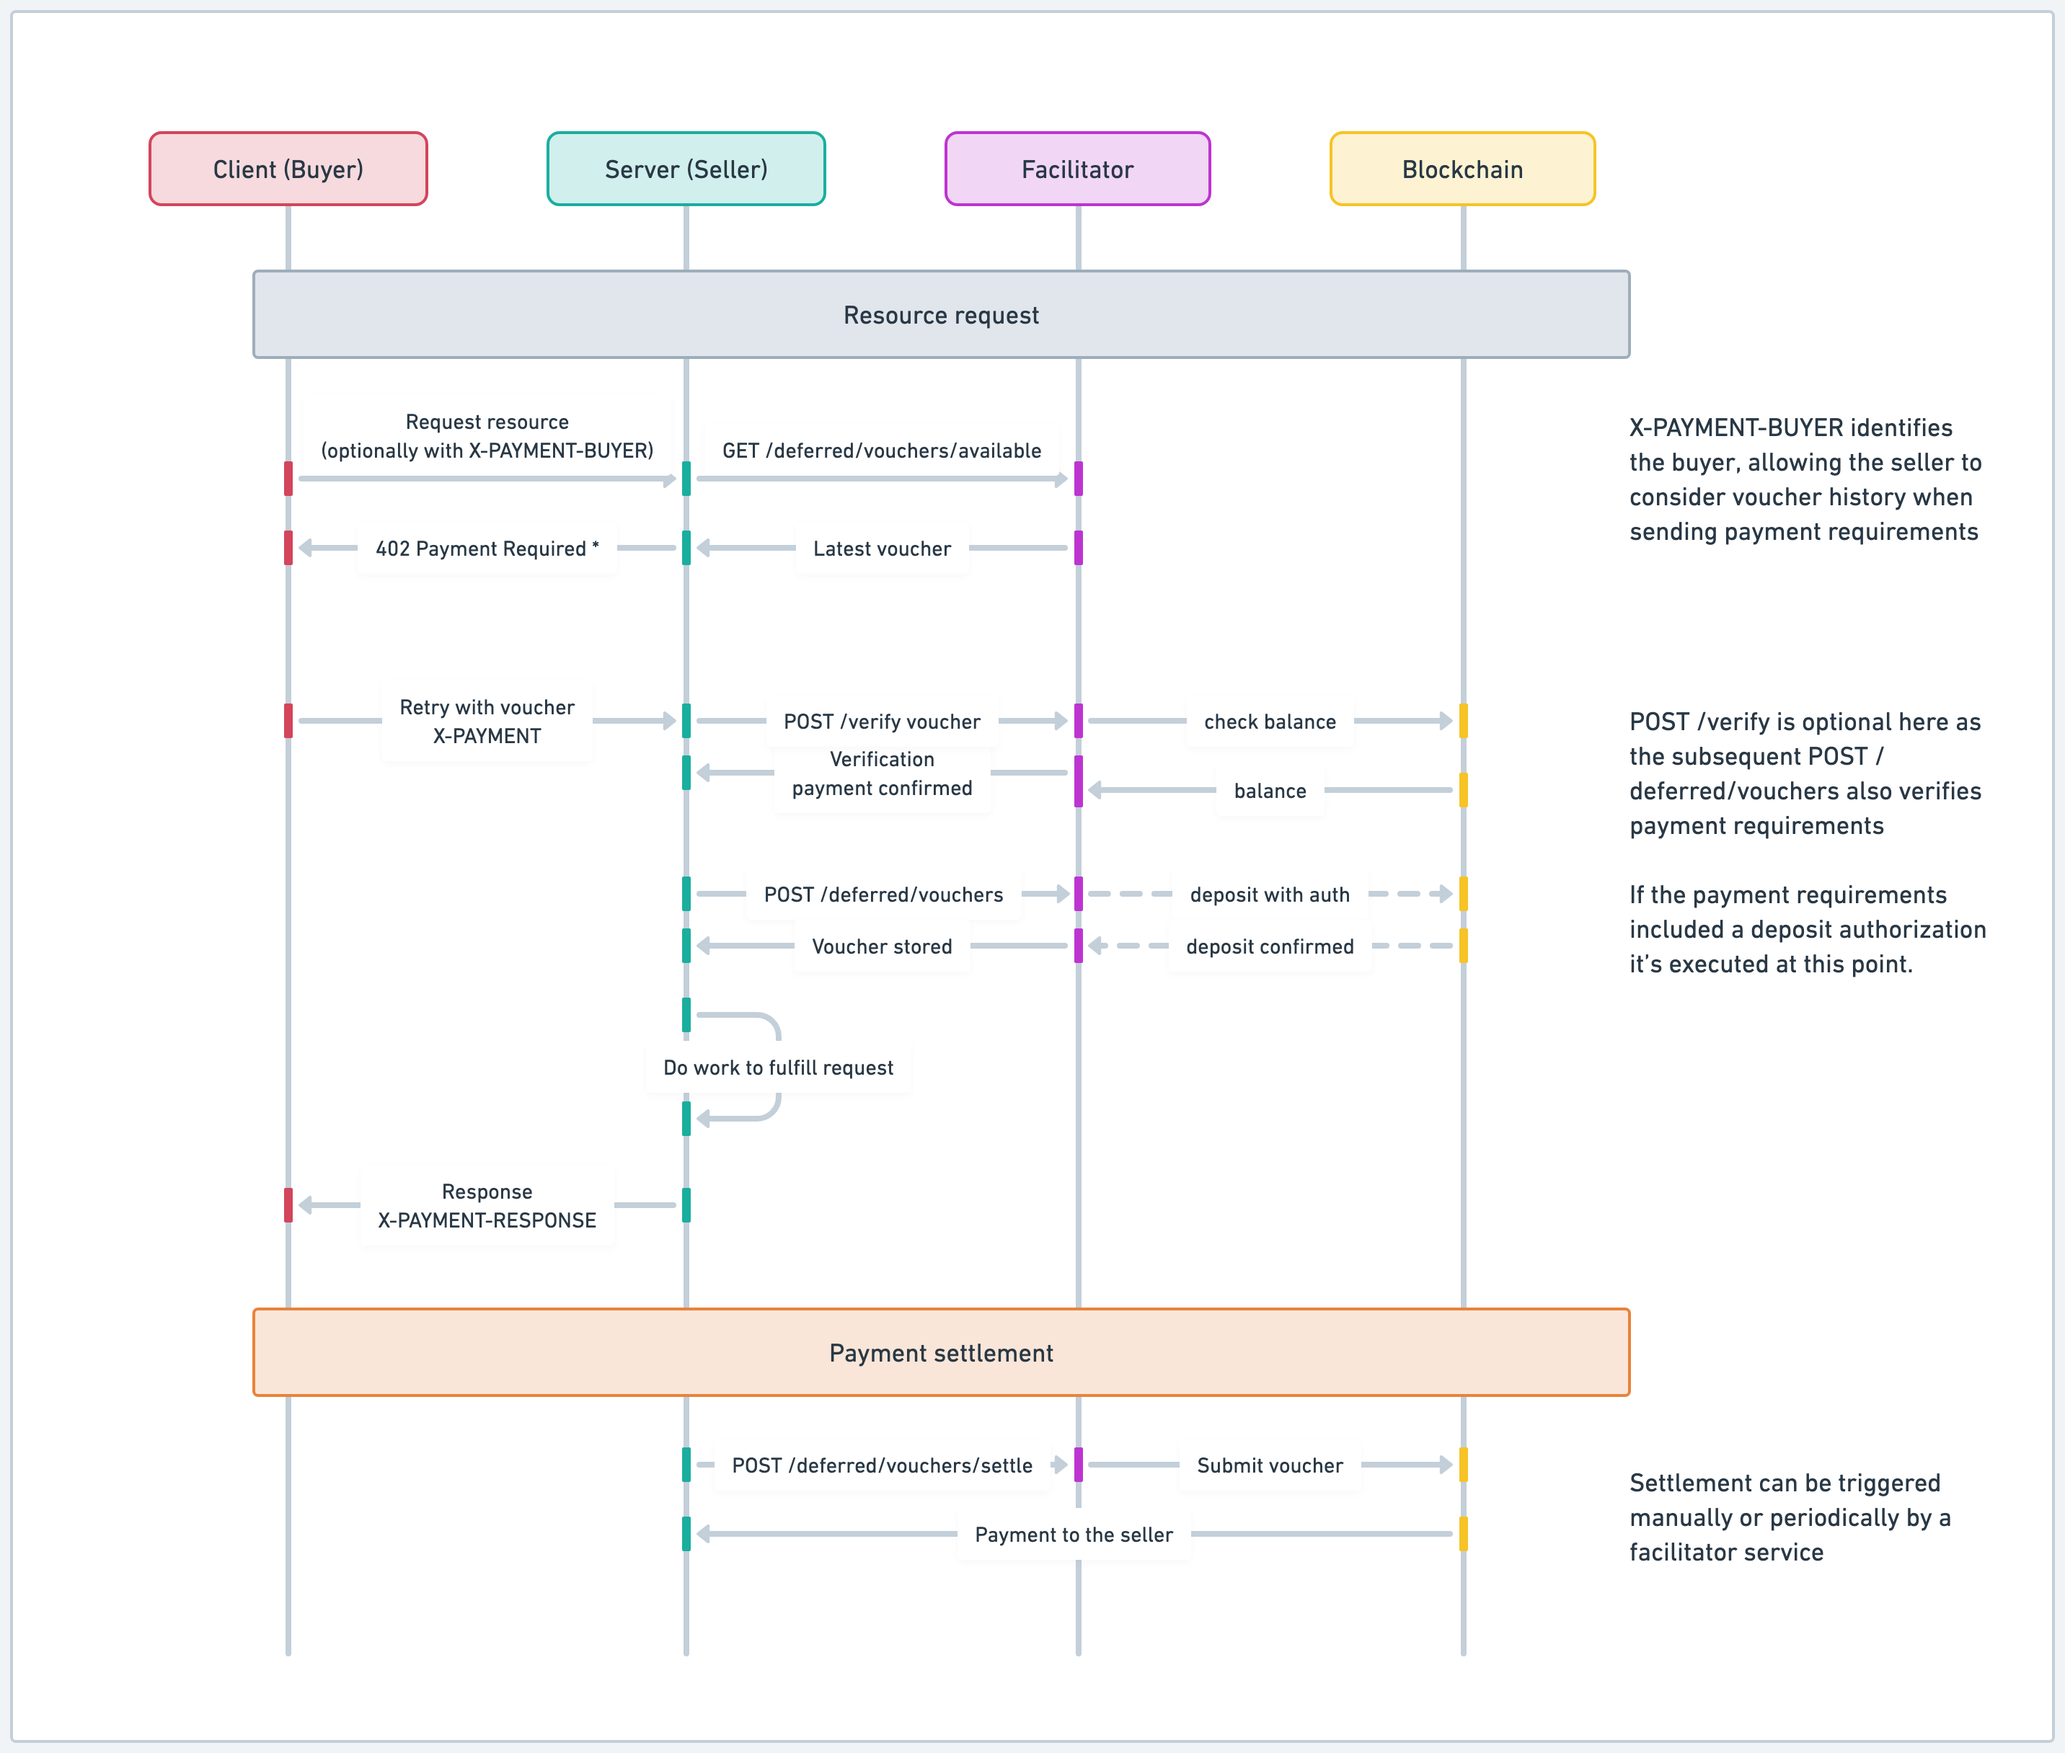
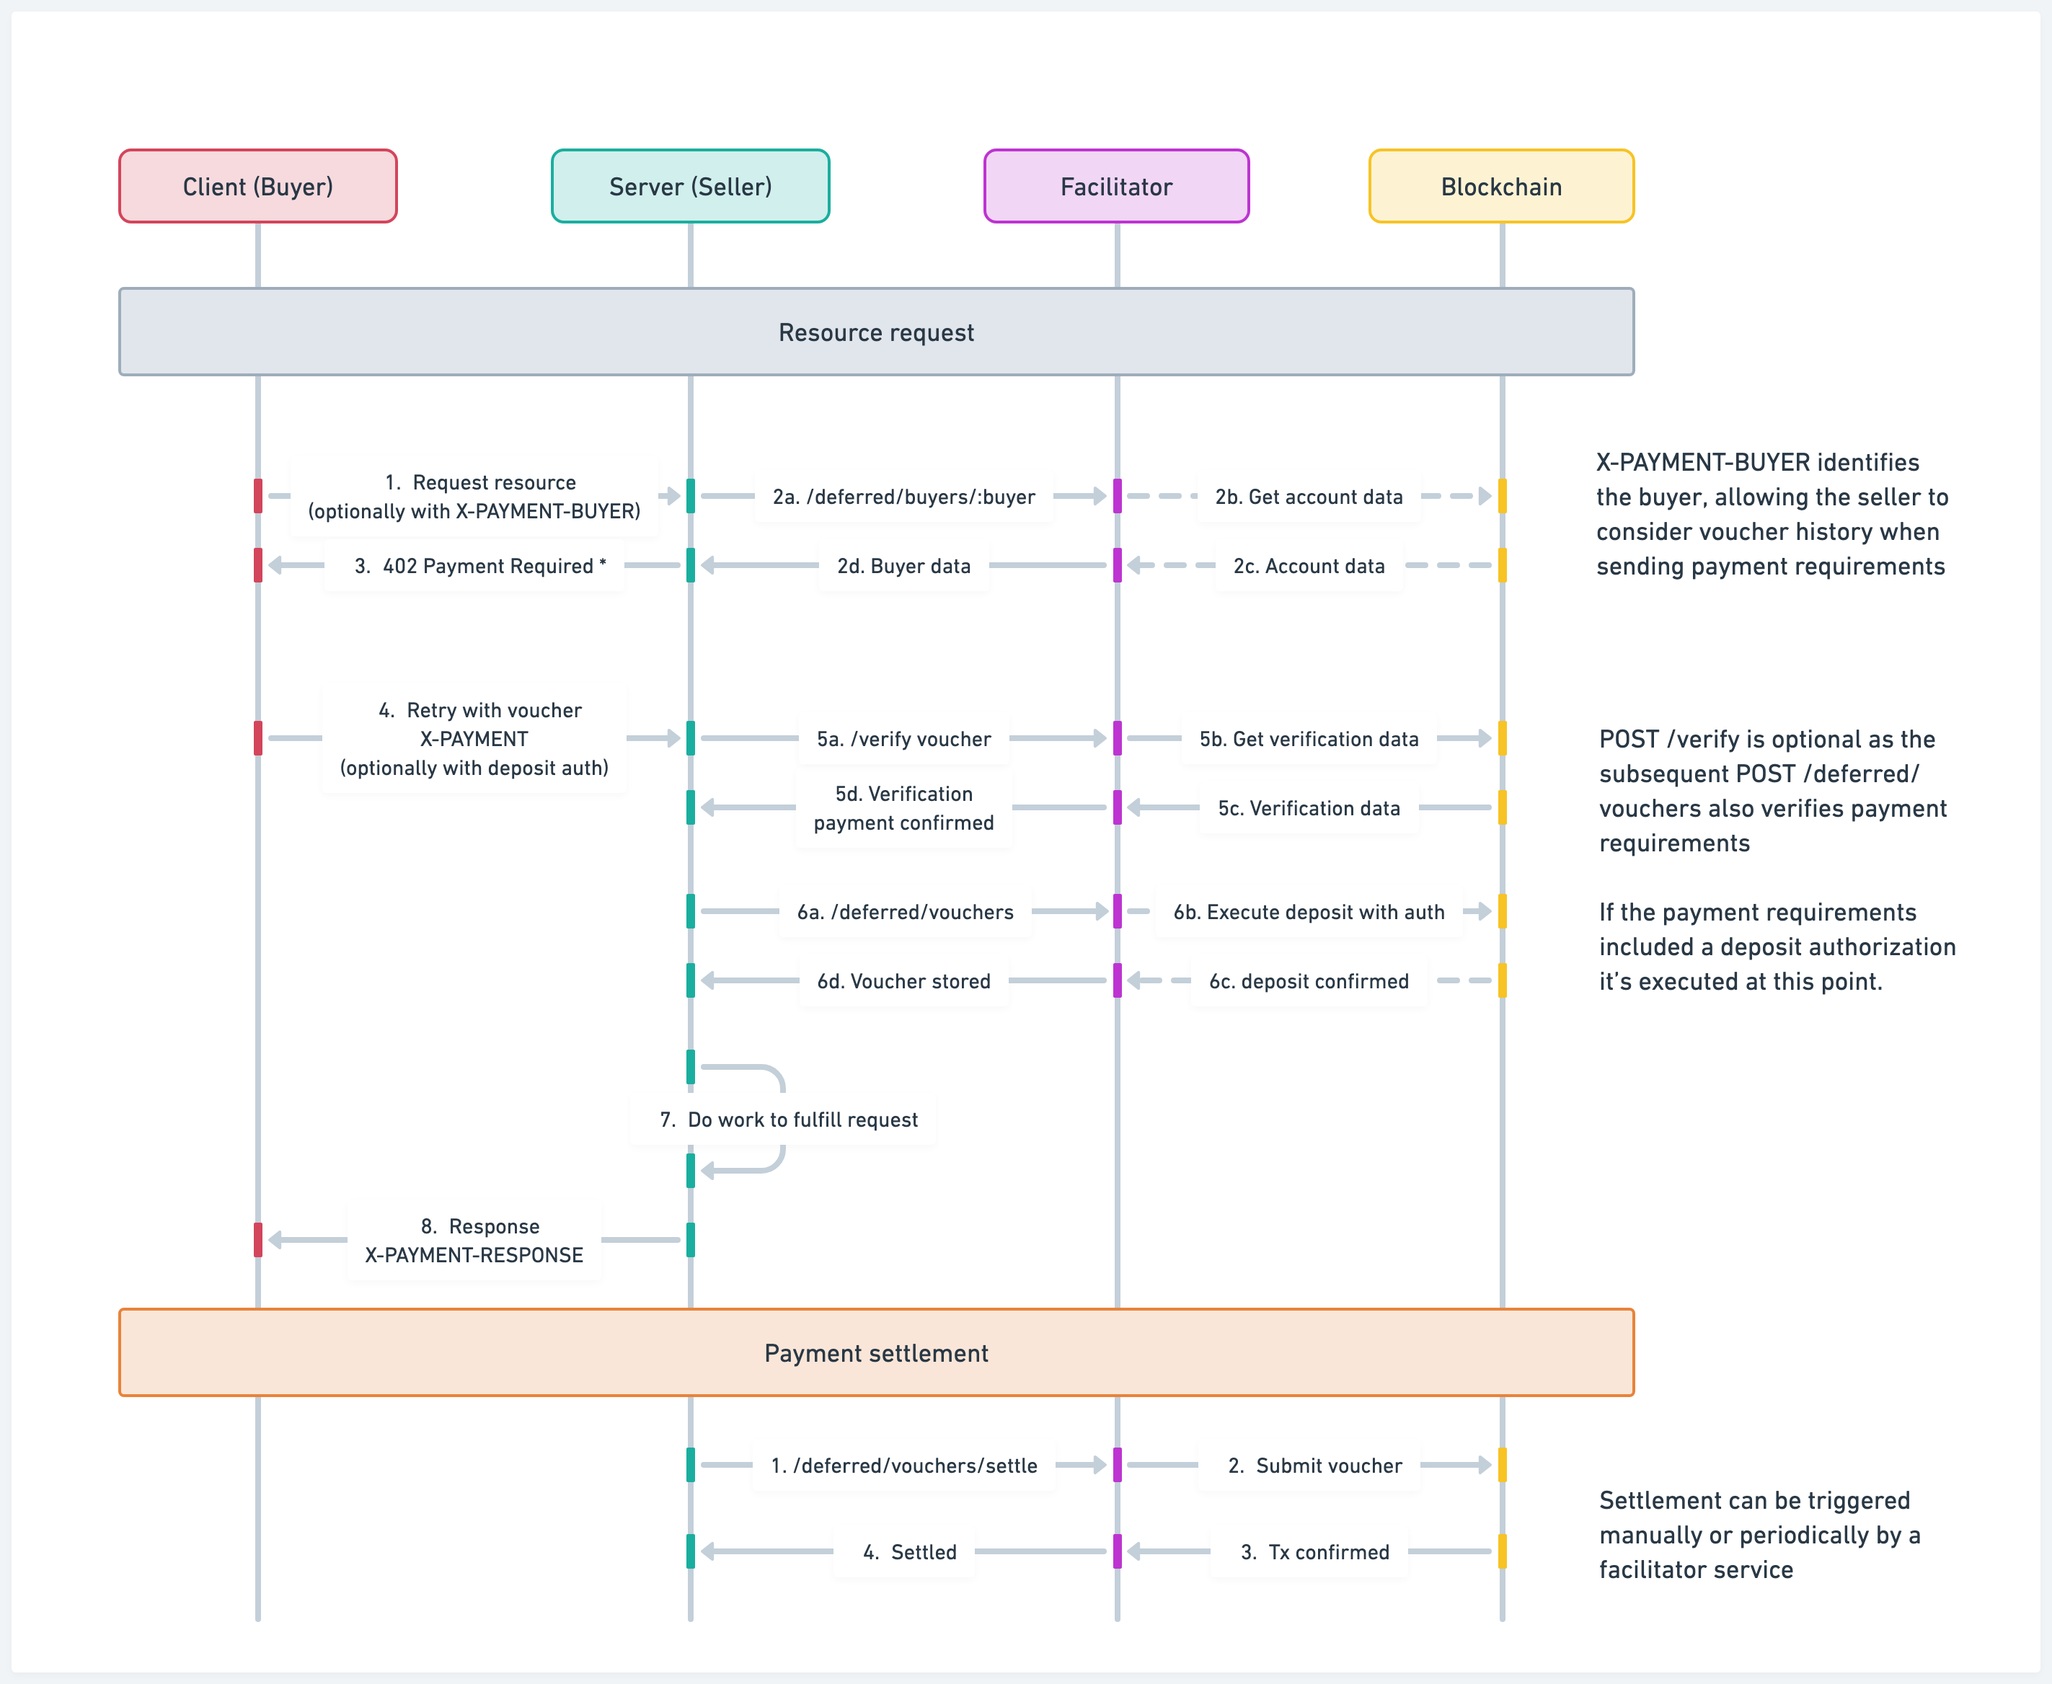
chore: update deferred spec

diff --git a/README.md b/README.md
@@ -98,34 +98,32 @@ The following outlines the flow of a payment using the `x402` protocol. Note tha
 
 ![](./static/x402-deferred-protocol-flow.png)
 
-The `deferred` scheme modifies slightly the x402 protocol flow to allow for a deferred settlement to happen. The following steps outline the resource request and payment verification flow:
+The `deferred` scheme modifies the x402 protocol sequencing to allow for a deferred settlement to happen. The following steps outline the resource request and payment verification flow:
 
-1. `Client` makes an HTTP request to a `resource server` with the `X-PAYMENT-BUYER` header containing the `Client` address.
+1. `Client` makes an HTTP request to a `resource server`, optionally with a `X-PAYMENT-BUYER` header containing the `Client` address.
 
-2. `Resource server` retrieves previous voucher history for the `Client`, responds with a `402 Payment Required` status and a `Payment Required Response` JSON object in the response body. The response body contains additional information required for the `deferred` scheme encoded in the `extra` field of the payment requirements, it will contain either a new voucher id for the `Client` to generate or details for the latest voucher for the `Client/Resource server` pair if it exists.
+2. `Resource server` processes the request and builds a `Payment Required Response` JSON object. The contents of the response include information in the `extra` field of the payment requirements, gathered from the facilitator:
+  - Voucher details: either a new voucher id for the `Client` to generate or the latest signed voucher for the `Client/Resource server` pair if it exists.
+  - Account balance: The `Client`'s onchain balance including outstanding vouchers to settle. Based on these values the `Client` can later opt to send a signed message to authorize deposits on their behalf.
+  - If no `X-PAYMENT-BUYER` is provided then the `Resource server` just responds with a new voucher id.
 
-3. `Client` creates a `Payment Payload` based on the value of the `paymentRequirements.extra` property:
-   - If there is no previous `Client/Resource server` history, it will instruct the `Client` to create a new voucher as payload.
-   - Otherwise it will contain the latest voucher for the pair, allowing the `Client` to aggregate payments on top of it before setting it as the payload.
-   - Optionally, the `Client` can sign a deposit authorization to allow the `facilitator server` to escrow funds on its behalf.
+3. `Resource server` responds with a `402 Payment Required` status and the `Payment Required Response` JSON object in the response body.
+  
+4. `Client`sends an HTTP request with the `X-PAYMENT` header containing the `Payment Payload` to the resource server:
+   - If there is no previous `Client/Resource server` history, the `Client` will create and sign a new voucher as the payload.
+   - If there is a previous voucher, the `Client` aggregates payments on top of it before signing and adding it to the payload.
+   - Optionally, the `Client` can sign a deposit authorization to allow the `facilitator server` to escrow funds on their behalf. 
 
-4. `Client` sends the HTTP request with the `X-PAYMENT` header containing the `Payment Payload` to the resource server. The payload will include:
-   - the signed voucher (which can be new or an aggregation with a previous one)
-   - (optionally) A signed deposit authorization. Allows the `facilitator server` to escrow funds on behalf of the `Client`. These are the funds the voucher will be claimed against. 
+5. `Resource server` verifies the `Payment Payload` is valid by POSTing the `Payment Payload` and `Payment Requirements` to the `/verify` endpoint of a `facilitator server`. `Facilitator server` performs verification of the object based on the `scheme` and `network` of the `Payment Payload` and returns a `Verification Response`.
 
-5. `Resource server` verifies the `Payment Payload` is valid either via local verification or by POSTing the `Payment Payload` and `Payment Requirements` to the `/verify` endpoint of a `facilitator server`.
-
-6. `Facilitator server` performs verification of the object based on the `scheme` and `network` of the `Payment Payload` and returns a `Verification Response`.
-
-7. If the `Verification Response` is valid:
-    - The resource server POSTs the validated voucher back to the `facilitator server` for persistent storage using the endpoint `POST /deferred/vouchers`
-      - The `facilitator server` will reverify the `Payment Payload` before storing the voucher, which makes the previous verification call optional (5. and 6.).
+6. If the `Verification Response` is valid:
+    - The `resource server` POSTs the validated voucher to the `facilitator server` for persistent storage using the endpoint `/deferred/vouchers`
+      - The `facilitator server` re-verifies the `Payment Payload` before storing the voucher, which makes the verification call on previous step not mandatory.
       - If a deposit authorization is present the `facilitator server` will execute it.
-    - Then the resource server performs the work to fulfill the original request.
-  If the `Verification Response` is invalid:
-    - the resource server returns a `402 Payment Required` status and a `Payment Required Response` JSON object in the response body.
 
-8. `Resource server` returns a `200 OK` response to the `Client` with the resource they requested as the body of the HTTP response, and a `X-PAYMENT-RESPONSE` header containing the total outstanding payment that is pending on-chain settlement.
+7. If the `Verification Response` is valid, the resource server performs the work to fulfill the request. If the `Verification Response` is invalid, the resource server returns a `402 Payment Required` status and a `Payment Required Response` JSON object in the response body.
+
+8. `Resource server` returns a `200 OK` response to the `Client` with the resource they requested as the body of the HTTP response, and a `X-PAYMENT-RESPONSE` header.
 
 At this point the `Client` has "paid for" the resource access by means of a signed voucher. The `facilitator server` stores the vouchers which can be redeemed at any time. The settlement sequencing then is as follows:
 

diff --git a/specs/schemes/deferred/scheme_deferred_evm_facilitator.md b/specs/schemes/deferred/scheme_deferred_evm_facilitator.md
@@ -13,13 +13,26 @@ As for write endpoints, they do not require traditional authentication but inste
 
 ## Required APIs
 
-### GET /vouchers/available/:buyer/:seller
+### GET /buyers/:buyer
 
-Returns the most suitable voucher for aggregation between a buyer-seller pair.
+Retrieves buyer data for a specific buyer, including escrow account balance, asset allowance, permit nonce, and the latest available voucher for a particular seller and asset.
+
+**Request Body:**
+```json
+{
+  "seller": "0xA1c7Bf3d421e8A54D39FbBE13f9f826E5B2C8e3D",
+  "asset": "0x081827b8c3aa05287b5aa2bc3051fbe638f33152",
+  "escrow": "0x7cB1A5A2a2C9e91B76914C0A7b7Fb3AefF3BCA27",
+  "chainId": 84532
+}
+```
 
 **Response (200 OK):**
 ```json
 {
+  "balance": "10000000",
+  "assetAllowance": "5000000",
+  "assetPermitNonce": "0",
   "voucher": {
[1 lines of base64/hex data omitted]
     "buyer": "0x209693Bc6afc0C5328bA36FaF03C514EF312287C",
@@ -30,13 +43,27 @@ Returns the most suitable voucher for aggregation between a buyer-seller pair.
     "nonce": 2,
     "escrow": "0x7cB1A5A2a2C9e91B76914C0A7b7Fb3AefF3BCA27",
     "chainId": 84532,
-    "expiry": 1740759400
-  },
-  "signature": "0x3a2f7e3b..."
+    "expiry": 1740759400,
+    "signature": "0x3a2f7e3b..."
+  }
 }
 ```
 
-**Response (404 Not Found):** No vouchers exist for this pair
+**Response (200 OK - No voucher available):**
+```json
+{
+  "balance": "10000000",
+  "assetAllowance": "5000000",
+  "assetPermitNonce": "0"
+}
+```
+
+**Response (400 Bad Request):**
+```json
+{
+  "error": "Invalid parameters"
+}
+```
 
 ### POST /vouchers
 
@@ -339,43 +366,31 @@ Retrieves settlement history for a voucher.
 }
 ```
 
-### GET /buyers/:buyer/account
 
-Retrieves the escrow account details for a specific buyer, including balance information for a particular seller and asset.
+### GET /vouchers/available/:buyer/:seller
 
-**Request Body:**
-```json
-{
-  "seller": "0xA1c7Bf3d421e8A54D39FbBE13f9f826E5B2C8e3D",
-  "asset": "0x081827b8c3aa05287b5aa2bc3051fbe638f33152",
-  "escrow": "0x7cB1A5A2a2C9e91B76914C0A7b7Fb3AefF3BCA27",
-  "chainId": 84532
-}
-```
+Returns the most suitable voucher for aggregation between a buyer-seller pair.
 
 **Response (200 OK):**
 ```json
 {
-  "balance": "10000000",
-  "thawingBalance": "2000000",
-  "availableBalance": "8000000",
-  "thawingUntil": 1740759400,
-  "outstandingVouchers": [
-    {
[1 lines of base64/hex data omitted]
-      "nonce": 3,
-      "valueAggregate": "6000000"
-    }
-  ]
+  "voucher": {
[1 lines of base64/hex data omitted]
+    "buyer": "0x209693Bc6afc0C5328bA36FaF03C514EF312287C",
+    "seller": "0xA1c7Bf3d421e8A54D39FbBE13f9f826E5B2C8e3D",
+    "valueAggregate": "5000000",
+    "asset": "0x081827b8c3aa05287b5aa2bc3051fbe638f33152",
+    "timestamp": 1740673000,
+    "nonce": 2,
+    "escrow": "0x7cB1A5A2a2C9e91B76914C0A7b7Fb3AefF3BCA27",
+    "chainId": 84532,
+    "expiry": 1740759400
+  },
+  "signature": "0x3a2f7e3b..."
 }
 ```
 
-**Response (400 Bad Request):**
-```json
-{
-  "error": "Invalid parameters"
-}
-```
+**Response (404 Not Found):** No vouchers exist for this pair
 
 ### POST /buyers/:buyer/flush
 
@@ -435,3 +450,4 @@ The flush authorization can be either:
   "payer": "0x209693Bc6afc0C5328bA36FaF03C514EF312287C"
 }
 ```
+
